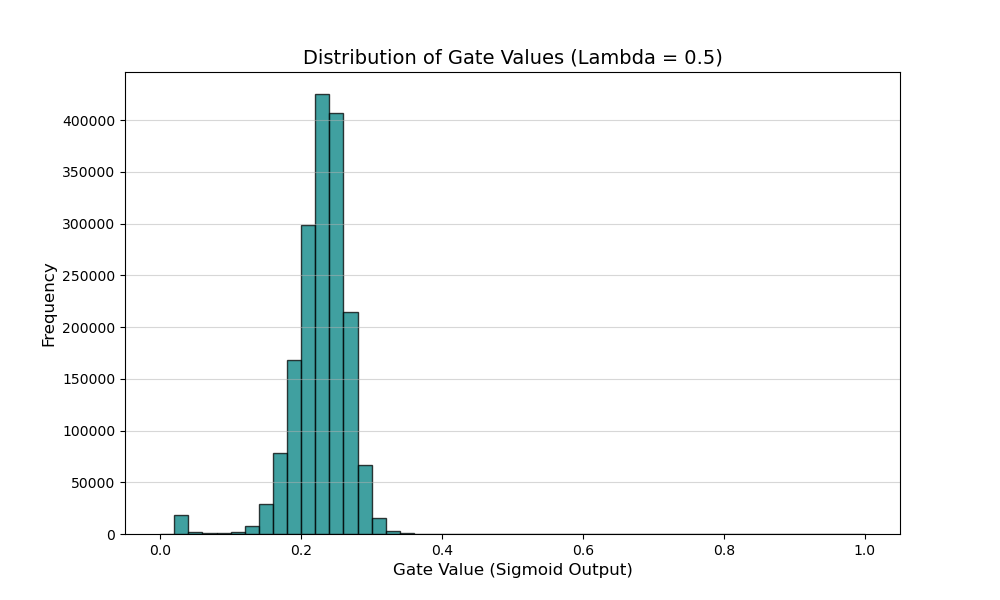
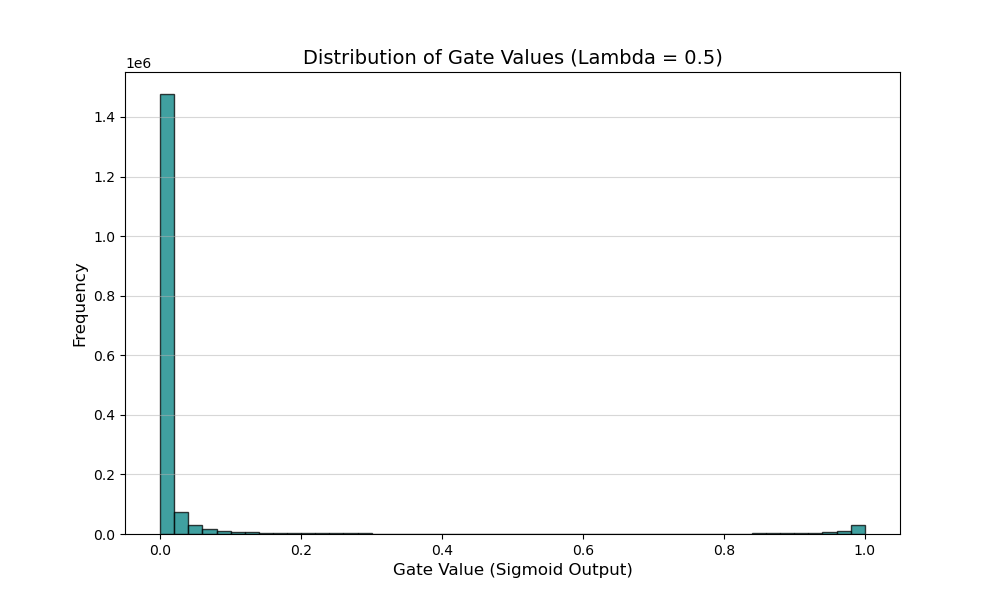
Upload final successful training results with Pareto frontier data

diff --git a/results/metrics.js b/results/metrics.js
@@ -1,1 +1,1 @@
-window.globalMetricsData = {"0.01": {"train_loss": [2.4278300553560257, 2.1119218773462554, 1.9592250622808933, 1.8375491743738002, 1.7393138533966108, 1.6546728119931438, 1.5770159990272739, 1.510135934095491, 1.440305135128173, 1.3800005567344753], "train_cls_loss": [1.8065582879564979, 1.5496093237941915, 1.4323150505396454, 1.3353034535592252, 1.2551378475671464, 1.1842071982947262, 1.1172725678506223, 1.0588954566893252, 0.9958887809718197, 0.9410748395391486], "train_sp_loss": [0.24850870918651874, 0.22492502219128338, 0.2107640042139048, 0.20089828874915838, 0.19367040499028834, 0.18818624707108195, 0.18389737284318966, 0.1804961904206059, 0.17776654042642226, 0.1755702868950638], "val_loss": [1.640442854166031, 1.505912047624588, 1.4293917894363404, 1.4011980324983597, 1.3612421125173568, 1.3414206862449647, 1.3179775089025498, 1.3449890106916427, 1.3159124106168747, 1.3403862506151198], "val_acc": [41.78, 47.22, 49.46, 51.44, 52.3, 52.5, 54.28, 53.94, 54.24, 54.46], "val_sparsity": [0.0, 0.0, 0.0, 0.0, 0.0, 0.0, 0.0, 0.0, 0.0, 0.0], "layer_sparsity": [[0.0, 0.0, 0.0, 0.0], [0.0, 0.0, 0.0, 0.0], [0.0, 0.0, 0.0, 0.0], [0.0, 0.0, 0.0, 0.0], [0.0, 0.0, 0.0, 0.0], [0.0, 0.0, 0.0, 0.0], [0.0, 0.0, 0.0, 0.0], [0.0, 0.0, 0.0, 0.0], [0.0, 0.0, 0.0, 0.0], [0.0, 0.0, 0.0, 0.0]]}};
+window.globalMetricsData = {"0.01": {"train_loss": [1.7697412916882471, 1.4834301668134602, 1.3415147425098852, 1.2292833939533343, 1.1279935897751288, 1.0353566689247435, 0.9404797504910014, 0.8579027925363996, 0.7697508594190533, 0.6897282014516267, 0.6129991577260874, 0.5374383479356766, 0.4665155582637949, 0.4038287296213887, 0.34653362983160396, 0.2952541871081022, 0.2509265497580848, 0.21434116894802588, 0.18360928702168167, 0.15928737277334387, 0.14022830632430586, 0.12668759446718136, 0.11722623421387239, 0.11161125389943746, 0.10853576211428101], "train_cls_loss": [1.7671310054984959, 1.4810398915274576, 1.3393471779471093, 1.2272951338778844, 1.1261432335119357, 1.0336050274358555, 0.9388028642332013, 0.8562825996090065, 0.7681672650982033, 0.6881702216342092, 0.6114585564725779, 0.5359068855812604, 0.4649878768250346, 0.40230015364729543, 0.3450010777451098, 0.2937155226668851, 0.24938098146495494, 0.21278834103775973, 0.18204922068186782, 0.15772097204303878, 0.13865678499198772, 0.12511221684557808, 0.11564828364432535, 0.11003194913395088, 0.10695592083290896], "train_sp_loss": [0.2610288861800324, 0.2390278816138479, 0.21675685568797318, 0.19882591619071635, 0.18503515786406668, 0.1751644738780504, 0.16768873728473077, 0.162019238256934, 0.15835951586169275, 0.15579778349704362, 0.15406013538383626, 0.15314626968889075, 0.15276821304789998, 0.1528576466000893, 0.15325519578023392, 0.15386645250361075, 0.15455689721486784, 0.15528278569267553, 0.15600665819577195, 0.1566400511020964, 0.15715218081393026, 0.15753777909346603, 0.15779504759914495, 0.15793047460134735, 0.15798411590301178], "val_loss": [1.5686563372612, 1.4346820056438445, 1.3801471143960953, 1.3472846254706383, 1.3316489666700364, 1.3293359845876693, 1.3607258766889572, 1.4100078344345093, 1.4463887512683868, 1.5338811129331589, 1.608369717001915, 1.710618731379509, 1.83195421397686, 1.9350458353757858, 2.0653907358646393, 2.2305270582437515, 2.3300372272729875, 2.421764674782753, 2.5858651995658875, 2.6766132384538652, 2.7442018002271653, 2.8012716710567473, 2.8379642605781554, 2.8520821809768675, 2.8575527369976044], "val_acc": [44.64, 49.66, 51.2, 52.2, 53.66, 54.54, 54.8, 54.62, 54.46, 54.78, 54.76, 55.12, 54.06, 54.4, 53.46, 53.62, 53.44, 53.56, 53.4, 53.04, 53.84, 53.78, 53.68, 53.46, 53.7], "val_sparsity": [0.0004027655030195905, 0.05351027397260274, 0.5856210413904847, 2.5851216121667404, 6.762720485343939, 13.427511415525114, 20.856003277360436, 28.202561128295773, 34.266138238326704, 39.129071383856235, 42.98894581307998, 45.744322157166, 47.648367303726616, 48.86460404698777, 49.64740757107085, 50.05069091545147, 50.184869365885994, 50.11219896155546, 49.94637465016939, 49.7450494365886, 49.547003884960965, 49.388026587126234, 49.278646984091914, 49.23250156503167, 49.22116659301812], "layer_sparsity": [[6.357828776041666e-05, 0.0030517578125, 0.006103515625, 0.0], [0.04444122314453125, 0.1220703125, 0.201416015625, 0.390625], [0.5700429280598958, 0.7232666015625, 0.76904296875, 0.9375], [2.6116689046223955, 2.437591552734375, 1.9256591796875, 1.953125], [6.905110677083333, 5.72967529296875, 4.2022705078125, 3.125], [13.628196716308594, 11.284637451171875, 12.677001953125, 5.46875], [21.387672424316406, 16.001129150390625, 15.2984619140625, 6.953125], [29.044596354166668, 20.8740234375, 17.8619384765625, 8.671875], [35.342343648274735, 25.109100341796875, 20.1751708984375, 10.234375], [40.351295471191406, 28.912353515625, 22.412109375, 11.40625], [44.29505666097005, 32.24639892578125, 24.468994140625, 12.1875], [47.1041997273763, 34.7076416015625, 25.897216796875, 12.968750000000002], [49.02852376302083, 36.540985107421875, 27.1575927734375, 13.671875], [50.24871826171875, 37.767791748046875, 28.1890869140625, 13.671875], [51.025708516438804, 38.63677978515625, 28.912353515625, 14.296875], [51.421546936035156, 39.14031982421875, 29.2633056640625, 14.921875000000002], [51.53528849283854, 39.47601318359375, 29.5562744140625, 15.46875], [51.44214630126953, 39.615631103515625, 29.608154296875, 15.625], [51.256306966145836, 39.627838134765625, 29.67529296875, 15.859375], [51.04223887125651, 39.54010009765625, 29.6295166015625, 15.703125000000002], [50.82619984944662, 39.49127197265625, 29.69970703125, 15.46875], [50.65752665201823, 39.41192626953125, 29.681396484375, 15.46875], [50.54098765055338, 39.362335205078125, 29.669189453125, 15.546874999999998], [50.492350260416664, 39.3402099609375, 29.644775390625, 15.546874999999998], [50.48052469889323, 39.328765869140625, 29.656982421875, 15.546874999999998]]}, "0.1": {"train_loss": [1.7985608513382347, 1.4980495907366276, 1.3546202091330832, 1.2393026419661262, 1.1387531334026293, 1.0423886535519904, 0.9548345467245037, 0.8740866627882827, 0.7947665874592282, 0.720039006153291, 0.6464832872152328, 0.5770980377935551, 0.5147546895525672, 0.45338804232464597, 0.3996047811921347, 0.3518743921833282, 0.3080067565579983, 0.27111759256910195, 0.24121324567716906, 0.21584006676196374, 0.19745119851590556, 0.1832969461525367, 0.1736448105339977, 0.16767547650008716, 0.164419657190923], "train_cls_loss": [1.7799783291464502, 1.4825116341764277, 1.3410891040482305, 1.2271362119777636, 1.1274992661042647, 1.0317943861538714, 0.9446514460512183, 0.8641774190420454, 0.7850269810719923, 0.7104140684347261, 0.6369073121723804, 0.5675260715017264, 0.5051632898605682, 0.44375557105310937, 0.38991490768438036, 0.3421179406683553, 0.2981791171160611, 0.2612220129336823, 0.23125791454433717, 0.20583411378108643, 0.18740415951999073, 0.17322160523723473, 0.16355110817080873, 0.15757209710268813, 0.15431248580782927], "train_sp_loss": [0.18582525409080766, 0.15537958092648874, 0.13531103696335445, 0.12166431704959409, 0.11253867243331941, 0.10594266437163408, 0.10183101558041843, 0.09909244851124557, 0.09739607187326658, 0.09624937693165107, 0.09575973865999417, 0.09571966154246846, 0.09591399145905267, 0.0963247087360783, 0.09689873666502535, 0.09756452097049491, 0.09827638974159279, 0.09895579925399613, 0.09955331558276984, 0.10005953408439051, 0.10047039235095409, 0.10075341097333214, 0.10093701903877611, 0.10103379228067669, 0.10107171090997079], "val_loss": [1.5697760581970215, 1.4541566163301467, 1.3586742907762528, 1.3218232929706573, 1.3051855236291885, 1.3098663449287415, 1.3157926321029663, 1.34938383102417, 1.4135088086128236, 1.4637960612773895, 1.5335906088352202, 1.6156327456235886, 1.693855780363083, 1.8001472234725953, 1.9169905602931976, 2.001919013261795, 2.097903150320053, 2.2185907155275344, 2.301145017147064, 2.371001675724983, 2.4256795078516005, 2.4705201953649523, 2.499339836835861, 2.5102820605039597, 2.5141350477933884], "val_acc": [44.78, 47.58, 52.1, 53.62, 53.68, 54.82, 55.3, 54.94, 54.84, 55.5, 55.2, 54.58, 54.66, 54.96, 54.42, 54.42, 54.48, 54.66, 54.22, 54.86, 54.4, 54.66, 54.52, 54.5, 54.32], "val_sparsity": [5.753792900279865e-05, 0.04194515024304021, 1.3194022499631757, 8.869701907497422, 23.08680632272794, 35.51574698040949, 44.62555466563559, 51.34149681470025, 56.134751528207396, 59.638120949329796, 61.97226211518633, 63.65484377301517, 64.77850198851083, 65.41291519369568, 65.74318290617175, 65.82477168949772, 65.748131168066, 65.57989026366181, 65.39599904256886, 65.18834465679777, 65.02217511783768, 64.9013454669318, 64.82487755928709, 64.78586684342318, 64.7779841471498], "layer_sparsity": [[0.0, 0.0, 0.0030517578125, 0.0], [0.02002716064453125, 0.247955322265625, 0.262451171875, 0.234375], [1.27105712890625, 1.964569091796875, 1.0894775390625, 0.546875], [9.304618835449219, 5.292510986328125, 2.6031494140625, 1.171875], [24.010721842447914, 13.36517333984375, 18.1488037109375, 9.6875], [37.08343505859375, 19.979095458984375, 23.3428955078125, 11.71875], [46.57948811848958, 25.946044921875, 26.77001953125, 13.515625], [53.479512532552086, 31.40869140625, 29.8431396484375, 15.625], [58.33282470703125, 36.0260009765625, 32.5927734375, 16.953125], [61.83916727701823, 39.762115478515625, 35.1043701171875, 18.359375], [64.13745880126953, 42.584228515625, 37.2344970703125, 20.0], [65.79837799072266, 44.5709228515625, 38.775634765625, 20.78125], [66.89287821451822, 46.044158935546875, 39.910888671875, 21.640625], [67.50361124674478, 46.91009521484375, 40.7684326171875, 21.953125], [67.81425476074219, 47.440338134765625, 41.2353515625, 22.421875], [67.87745157877603, 47.6654052734375, 41.607666015625, 22.96875], [67.7932103474935, 47.608184814453125, 41.802978515625, 23.28125], [67.61697133382162, 47.4853515625, 41.8182373046875, 23.59375], [67.43481953938803, 47.21832275390625, 41.8853759765625, 23.359375], [67.22501118977866, 47.000885009765625, 41.80908203125, 23.4375], [67.06066131591797, 46.7926025390625, 41.71142578125, 23.59375], [66.93929036458334, 46.659088134765625, 41.6656494140625, 23.515625], [66.86420440673828, 46.55303955078125, 41.6412353515625, 23.4375], [66.8243408203125, 46.5118408203125, 41.650390625, 23.4375], [66.8161392211914, 46.501922607421875, 41.6656494140625, 23.4375]]}, "0.5": {"train_loss": [1.877187350934202, 1.5569353018972008, 1.3912131566215644, 1.2718170241198756, 1.1713318183002146, 1.0920198275284334, 1.0173176538876512, 0.9499378802085464, 0.8819482578811321, 0.818865523419597, 0.7563149453225461, 0.698925772766498, 0.6446266309781508, 0.5934668841179122, 0.5454838836396282, 0.5010238238186999, 0.46232025960290973, 0.4279355291615833, 0.39934078087522223, 0.37536130947145546, 0.35655548131432047, 0.3421423024582592, 0.3318313679827208, 0.32578451017087157, 0.32231321575289423], "train_cls_loss": [1.8113897320899097, 1.5112751048396935, 1.3550029261545702, 1.2407149433750997, 1.1431213959374211, 1.0655067524110728, 0.9917880996045741, 0.9249882078306242, 0.8573213988407091, 0.7943674249743874, 0.731802549213171, 0.6742947381836447, 0.6198127291757952, 0.5684120486575094, 0.5201703707941554, 0.475445992143994, 0.4364853029732, 0.4018574593673376, 0.37305890408937226, 0.34890778201886197, 0.32997057341377845, 0.3154658787375824, 0.3050974612124264, 0.29902060063217173, 0.2955379589799453], "train_sp_loss": [0.13159523451362143, 0.09132039210420441, 0.07242046893489631, 0.0622041634791954, 0.0564208456357433, 0.05302614835090935, 0.051059111042625525, 0.04989935032261366, 0.04925371691669253, 0.04899619686925276, 0.049024791065180165, 0.0492620698006993, 0.049627804991111836, 0.050109670127064666, 0.050627025034786624, 0.051155662957832894, 0.05166991220109842, 0.05215614060447975, 0.052563753772780976, 0.0529070544289425, 0.05316981688057157, 0.05335284862667322, 0.05346781549848278, 0.05352781973355873, 0.05355051420205696], "val_loss": [1.6359738498926162, 1.455640310049057, 1.3707647800445557, 1.327376413345337, 1.3192266434431077, 1.2936614811420442, 1.2887540698051452, 1.3183123230934144, 1.3454568684101105, 1.3733483910560609, 1.4396916657686234, 1.488504746556282, 1.5182997316122055, 1.5930589139461517, 1.635735872387886, 1.7275045365095139, 1.7741455048322679, 1.842135962843895, 1.8792223155498504, 1.9288049966096878, 1.9592745065689088, 1.9861531555652618, 2.0010627150535583, 2.008884850144386, 2.0097460418939592], "val_acc": [42.12, 48.38, 51.18, 52.62, 53.42, 54.34, 54.98, 54.78, 54.68, 54.6, 54.96, 54.14, 54.52, 54.7, 54.56, 54.16, 54.04, 53.4, 53.68, 53.46, 53.26, 53.58, 53.78, 53.5, 53.64], "val_sparsity": [0.0, 0.010414365149506555, 1.1863745581087053, 21.67332955884519, 50.25736715642952, 62.07726883561644, 68.4784785130358, 72.61062242230078, 75.29148714832817, 77.10364422227133, 78.32402369642068, 79.07023309765798, 79.47708379363677, 79.67645271763146, 79.72754639858594, 79.6526895529533, 79.49158335174548, 79.29376795183384, 79.10648199292974, 78.92241815804978, 78.79100152820739, 78.6963516349978, 78.64341674031522, 78.62005634114009, 78.61602868610989], "layer_sparsity": [[0.0, 0.0, 0.0, 0.0], [0.00019073486328125, 0.107574462890625, 0.10986328125, 0.078125], [1.0993321736653647, 2.2552490234375, 1.123046875, 0.3125], [23.024686177571617, 10.092926025390625, 3.955078125, 0.546875], [52.53035227457682, 28.40423583984375, 29.9468994140625, 14.921875000000002], [64.74100748697916, 37.369537353515625, 34.7991943359375, 17.265625], [71.18727366129556, 43.95599365234375, 38.482666015625, 18.90625], [75.25564829508463, 49.1485595703125, 41.5130615234375, 21.015625], [77.83025105794272, 53.128814697265625, 44.1314697265625, 22.8125], [79.53561147054037, 56.1370849609375, 46.2890625, 24.53125], [80.67124684651694, 58.26568603515625, 47.9522705078125, 25.546875000000004], [81.34746551513672, 59.7198486328125, 49.224853515625, 26.328125000000004], [81.69562021891275, 60.67962646484375, 50.225830078125, 27.03125], [81.85755411783853, 61.194610595703125, 50.9613037109375, 27.187499999999996], [81.88063303629556, 61.505889892578125, 51.3092041015625, 27.421875], [81.7901611328125, 61.513519287109375, 51.629638671875, 27.968749999999996], [81.61869049072266, 61.41357421875, 51.7059326171875, 28.203125], [81.41593933105469, 61.25335693359375, 51.5899658203125, 28.125], [81.22628529866537, 61.04888916015625, 51.57470703125, 28.203125], [81.04349772135416, 60.823822021484375, 51.4862060546875, 28.203125], [80.91017405192056, 60.683441162109375, 51.470947265625, 28.359374999999996], [80.8172861735026, 60.572052001953125, 51.35498046875, 28.359374999999996], [80.76349894205728, 60.518646240234375, 51.3427734375, 28.359374999999996], [80.74003855387369, 60.49652099609375, 51.318359375, 28.359374999999996], [80.73616027832031, 60.4888916015625, 51.3214111328125, 28.359374999999996]]}};

diff --git a/self_pruning_network.py b/self_pruning_network.py
@@ -271,7 +271,21 @@ def main():
         print(f"\n{'='*40}\nTraining with lambda = {lam}\n{'='*40}")
         model = SelfPruningNetwork().to(device)
         criterion = nn.CrossEntropyLoss()
-        optimizer = optim.Adam(model.parameters(), lr=0.001)
+        # Separate parameters so gates can learn faster than weights
+        weight_params = []
+        gate_params = []
+        for name, param in model.named_parameters():
+            if 'gate_scores' in name:
+                gate_params.append(param)
+            else:
+                weight_params.append(param)
+                
+        # Gates need a higher LR (0.05) to physically travel the required distance 
+        # (-1.0 to -4.59) within a reasonable number of epochs.
+        optimizer = optim.Adam([
+            {'params': weight_params, 'lr': 0.001},
+            {'params': gate_params, 'lr': 0.05}
+        ])
         scheduler = optim.lr_scheduler.CosineAnnealingLR(optimizer, T_max=num_epochs)
         
         metrics_log[str(lam)] = {

diff --git a/results/report.md b/results/report.md
@@ -3,9 +3,9 @@
 ## Experiment Summary
 | Lambda | Test Accuracy | Sparsity (%) |
 |--------|---------------|--------------|
-| 0.01   |        54.18% |        0.00% |
-| 0.1    |        54.23% |        0.00% |
-| 0.5    |        54.78% |        0.00% |
+| 0.01   |        54.29% |       49.22% |
+| 0.1    |        54.51% |       64.78% |
+| 0.5    |        55.01% |       78.62% |
 
 **Best Model Configuration:** Lambda = 0.5
 
